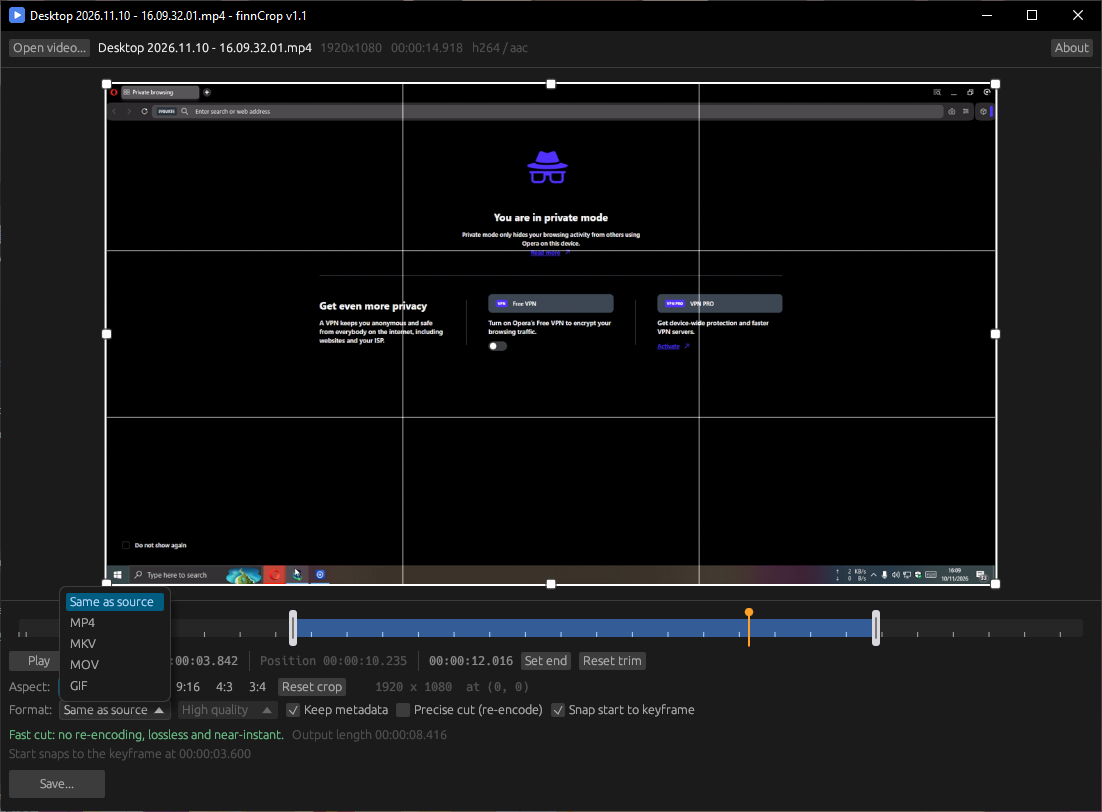
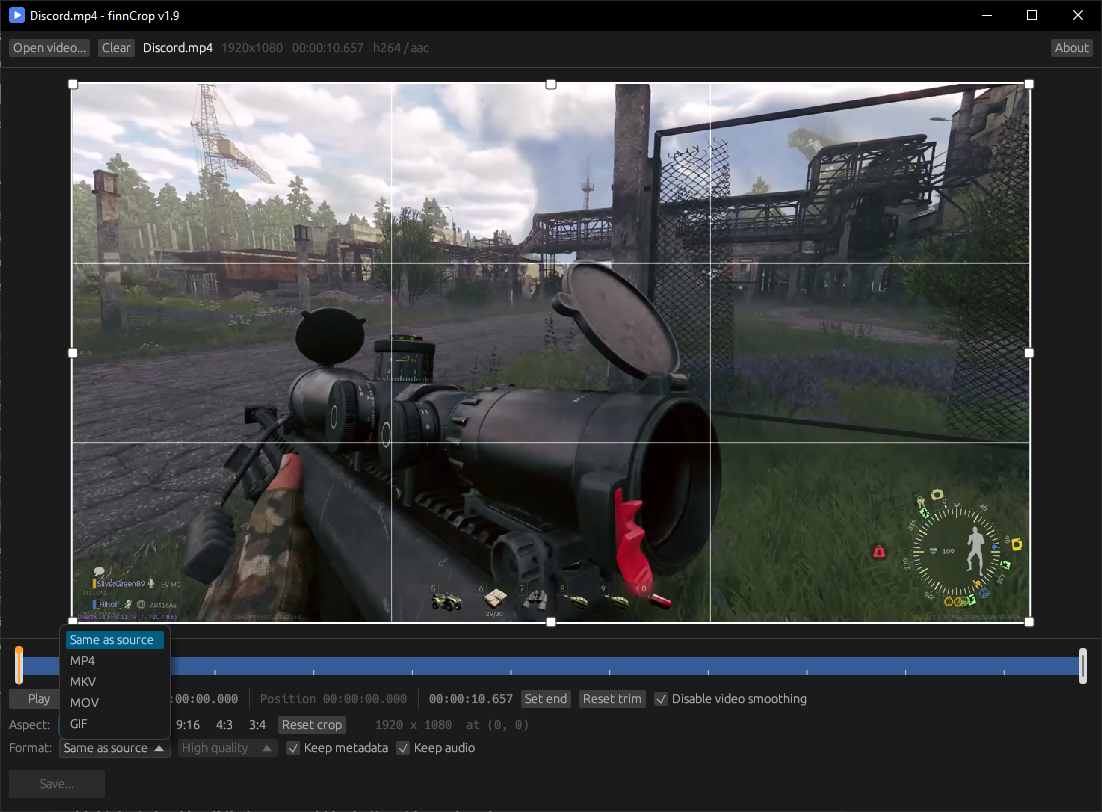
Refresh the README screenshots
Both screenshots now show 1.9, with the whole-pixel preview that is on by
default. A note under *Notes* says that the preview settings - zoom, the
right-drag pan, the whole-pixel drawing and the snapped crop edges - change
nothing in the saved file.

diff --git a/README.md b/README.md
@@ -78,6 +78,9 @@ The mode is picked for you and shown under the controls:
   whatever the file. That costs a re-encode of the picture: a lossless copy
   cannot start anywhere except on a keyframe, and keyframes can be seconds
   apart, which would make the clip longer than the range you selected.
+- **The preview settings are preview only.** Zooming, panning, the whole-pixel
+  drawing and the snapped crop edges change nothing in the file: the box decides
+  what is written, and the picture is encoded from the source at full resolution.
 - **GIF quality moves three things at once** — frame rate (15 / 12 / 10 fps),
   long side (800 / 640 / 480 px) and palette (256 / 192 / 128 colours). The
   picture is only ever made smaller, never bigger. A GIF is encoded in two
